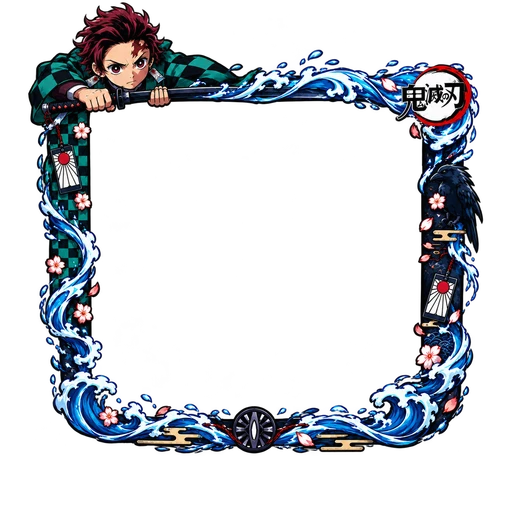
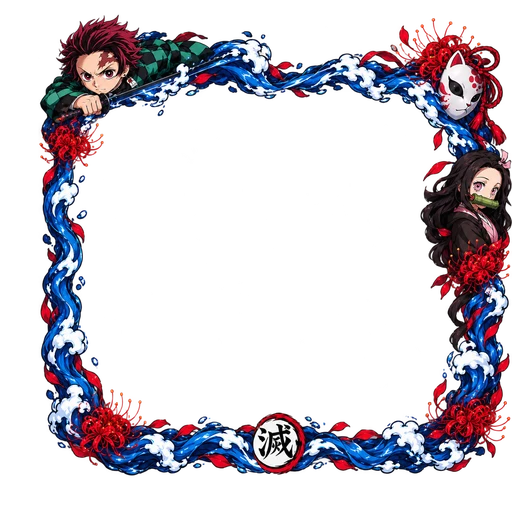
feat: add more ramkas

diff --git a/apps/web/src/FramePicker.tsx b/apps/web/src/FramePicker.tsx
@@ -68,15 +68,22 @@ export default function FramePicker() {
               </button>
               <h2>{title}</h2>
 
-              {(['award', 'world'] as const).map((kind) => {
+              {(['award', 'world', 'other'] as const).map((kind, index, kinds) => {
                 const list = owned.filter((one) => one.kind === kind)
                 if (!list.length) return null
+                const first = kinds.slice(0, index).every((before) => !owned.some((one) => one.kind === before))
 
                 return (
                   <section key={kind} className="frame-group">
-                    <h3>{kind === 'award' ? l({ ru: 'Награды', uk: 'Нагороди', en: 'Awards' }) : l({ ru: 'Вселенные', uk: 'Всесвіти', en: 'Worlds' })}</h3>
+                    <h3>
+                      {kind === 'award'
+                        ? l({ ru: 'Награды', uk: 'Нагороди', en: 'Awards' })
+                        : kind === 'world'
+                          ? l({ ru: 'Вселенные', uk: 'Всесвіти', en: 'Worlds' })
+                          : l({ ru: 'Другое', uk: 'Інше', en: 'Other' })}
+                    </h3>
                     <div className="frame-grid">
-                      {kind === 'award' && (
+                      {first && (
                         <button type="button" className={`frame-card ${user.frame ? '' : 'on'}`} disabled={busy} onClick={() => void pick(null)}>
                           <Avatar id={user.id} name={user.nickname} avatar={user.avatar} />
                           <span>{l({ ru: 'Без рамки', uk: 'Без рамки', en: 'No frame' })}</span>

diff --git a/apps/web/src/frames.ts b/apps/web/src/frames.ts
@@ -2,17 +2,24 @@ import { GAMES } from './games'
 import { l10n } from './games/types'
 import type { L10n } from './i18n/langs'
 
-export type FrameKind = 'award' | 'world'
+export type FrameKind = 'award' | 'world' | 'other'
 
 export type Frame = { id: string; kind: FrameKind; label: L10n }
 
-const AWARDS: Frame[] = [{ id: 'top10', kind: 'award', label: l10n('Топ-10', 'Топ-10', 'Top 10') }]
+const AWARDS: Frame[] = [
+  { id: 'top1', kind: 'award', label: l10n('1-е место', '1-ше місце', '1st place') },
+  { id: 'top2', kind: 'award', label: l10n('2-е место', '2-ге місце', '2nd place') },
+  { id: 'top3', kind: 'award', label: l10n('3-е место', '3-тє місце', '3rd place') },
+]
 
-const WORLDS = ['berserk', 'ff', 'naruto', 'onepiece', 'bleach', 'kny']
+const OTHERS: Frame[] = [{ id: 'top10', kind: 'other', label: l10n('Топ-10', 'Топ-10', 'Top 10') }]
+
+const WORLDS = ['berserk', 'ff', 'naruto', 'onepiece', 'bleach', 'kny', 'aot', 'jjk', 'csm', 'tg', 'hxh', 'jojo']
 
 export const FRAMES: Frame[] = [
   ...AWARDS,
   ...WORLDS.map((id) => ({ id, kind: 'world' as const, label: GAMES.find((game) => game.id === id)?.label ?? l10n(id, id, id) })),
+  ...OTHERS,
 ]
 
 export const frameUrl = (id: string) => `/frames/${id}.webp`

diff --git a/packages/core/src/achievements.ts b/packages/core/src/achievements.ts
@@ -3,7 +3,7 @@ import { ObjectId } from 'mongodb'
 import { rounds, seasons, users, type UserDoc } from './db'
 import { gameData } from './games'
 import { addSeasonXp, previousSeason, seasonAt, seasonStanding, takeSeasonClose } from './season'
-import { TOP_FRAME, TOP_PLACES } from './frame-list'
+import { PLACE_FRAMES, TOP_PLACES } from './frame-list'
 
 export type Tier = 'bronze' | 'silver' | 'gold' | 'legend' | 'secret'
 export type Kind = 'life' | 'season'
@@ -542,7 +542,7 @@ export async function grantSeasonTrophies(standing: { userId: ObjectId }[]) {
       { _id: row.userId },
       {
         $set: Object.fromEntries(won.map((trophy) => [`awards.${trophy.id}`, now])),
-        ...(place <= TOP_PLACES ? { $addToSet: { frames: TOP_FRAME } } : {}),
+        ...(place <= TOP_PLACES ? { $addToSet: { frames: PLACE_FRAMES[place - 1] } } : {}),
       },
     )
   }

diff --git a/packages/core/src/frame-list.ts b/packages/core/src/frame-list.ts
@@ -1,12 +1,27 @@
-export const TOP_FRAME = 'top10'
+export const PLACE_FRAMES = ['top1', 'top2', 'top3'] as const
 
-export const TOP_PLACES = 10
+export const TOP_PLACES = PLACE_FRAMES.length
 
-export const AWARD_FRAMES = [TOP_FRAME] as const
+export const AWARD_FRAMES = PLACE_FRAMES
 
-export const WORLD_FRAMES = ['berserk', 'ff', 'naruto', 'onepiece', 'bleach', 'kny'] as const
+export const WORLD_FRAMES = [
+  'berserk',
+  'ff',
+  'naruto',
+  'onepiece',
+  'bleach',
+  'kny',
+  'aot',
+  'jjk',
+  'csm',
+  'tg',
+  'hxh',
+  'jojo',
+] as const
 
-export const FRAMES = [...AWARD_FRAMES, ...WORLD_FRAMES] as const
+export const OTHER_FRAMES = ['top10'] as const
+
+export const FRAMES = [...AWARD_FRAMES, ...WORLD_FRAMES, ...OTHER_FRAMES] as const
 
 export type Frame = (typeof FRAMES)[number]
 

diff --git a/apps/web/src/styles.css b/apps/web/src/styles.css
@@ -8247,7 +8247,7 @@ html[data-cat='screen'] .tile[data-id='screen'] .tile-icon {
 
 .frame-grid {
   display: grid;
-  grid-template-columns: repeat(auto-fit, minmax(96px, 1fr));
+  grid-template-columns: repeat(auto-fill, minmax(96px, 1fr));
   gap: 12px;
 }
 
